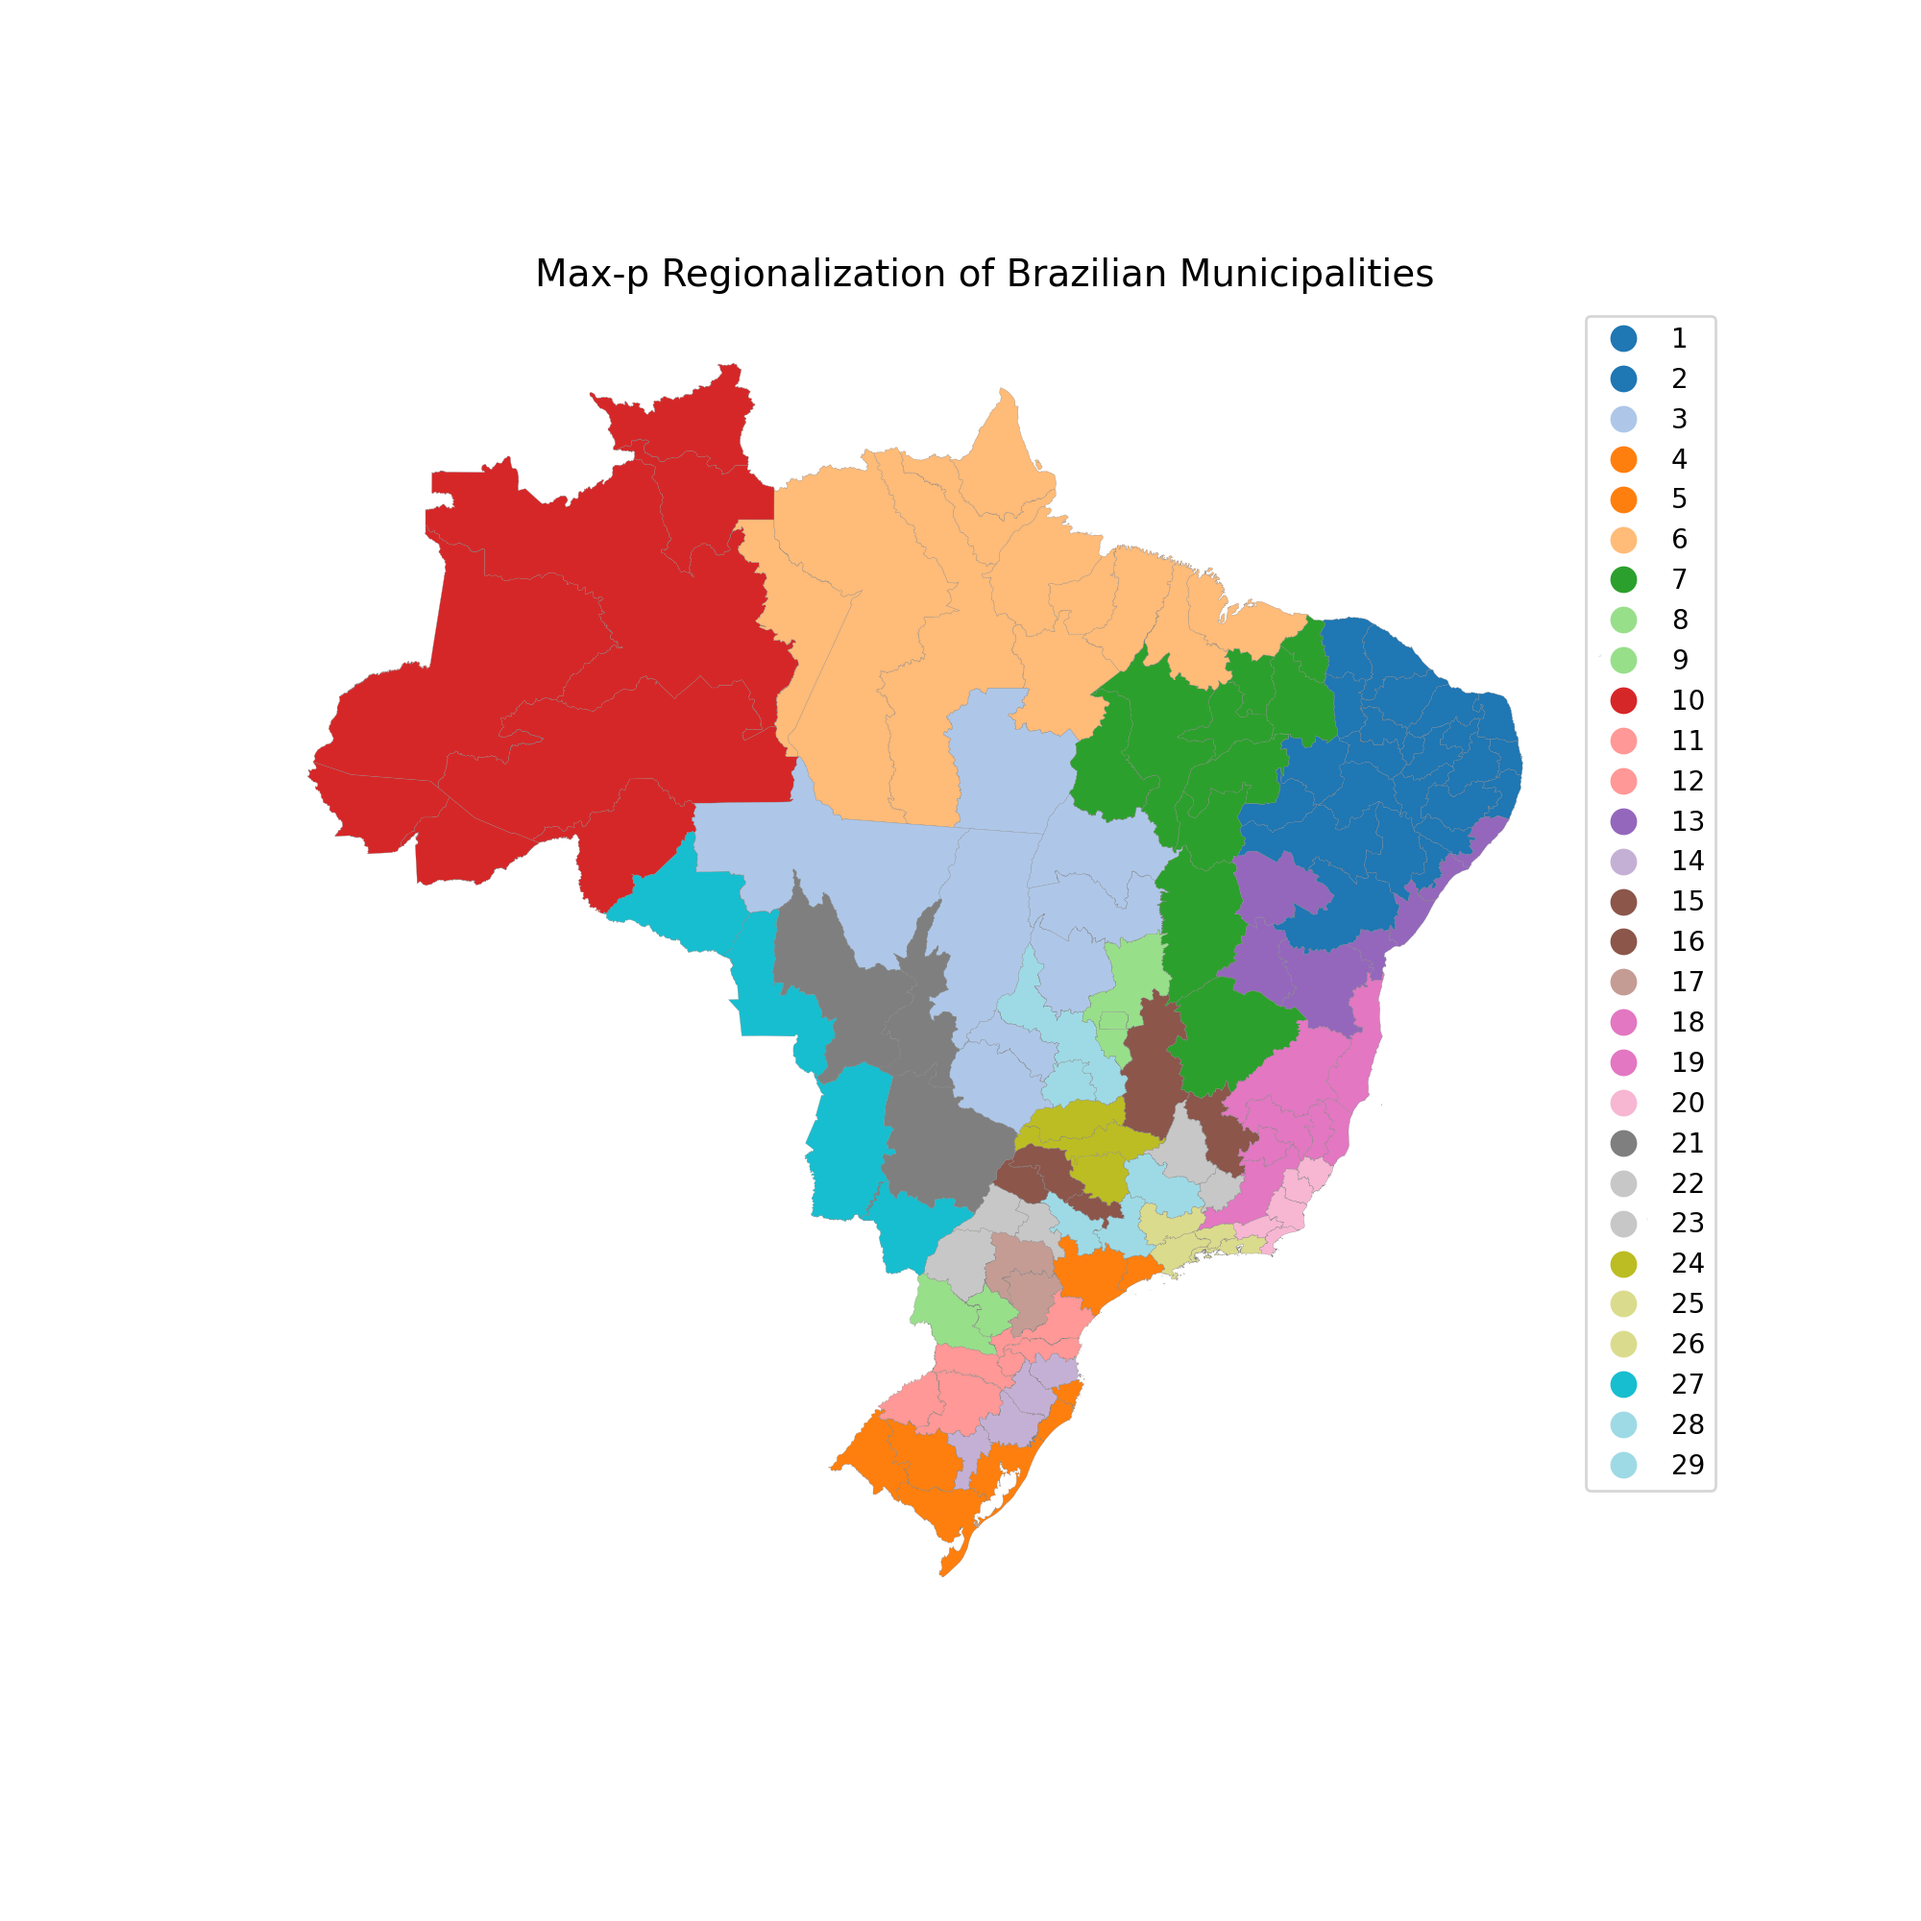
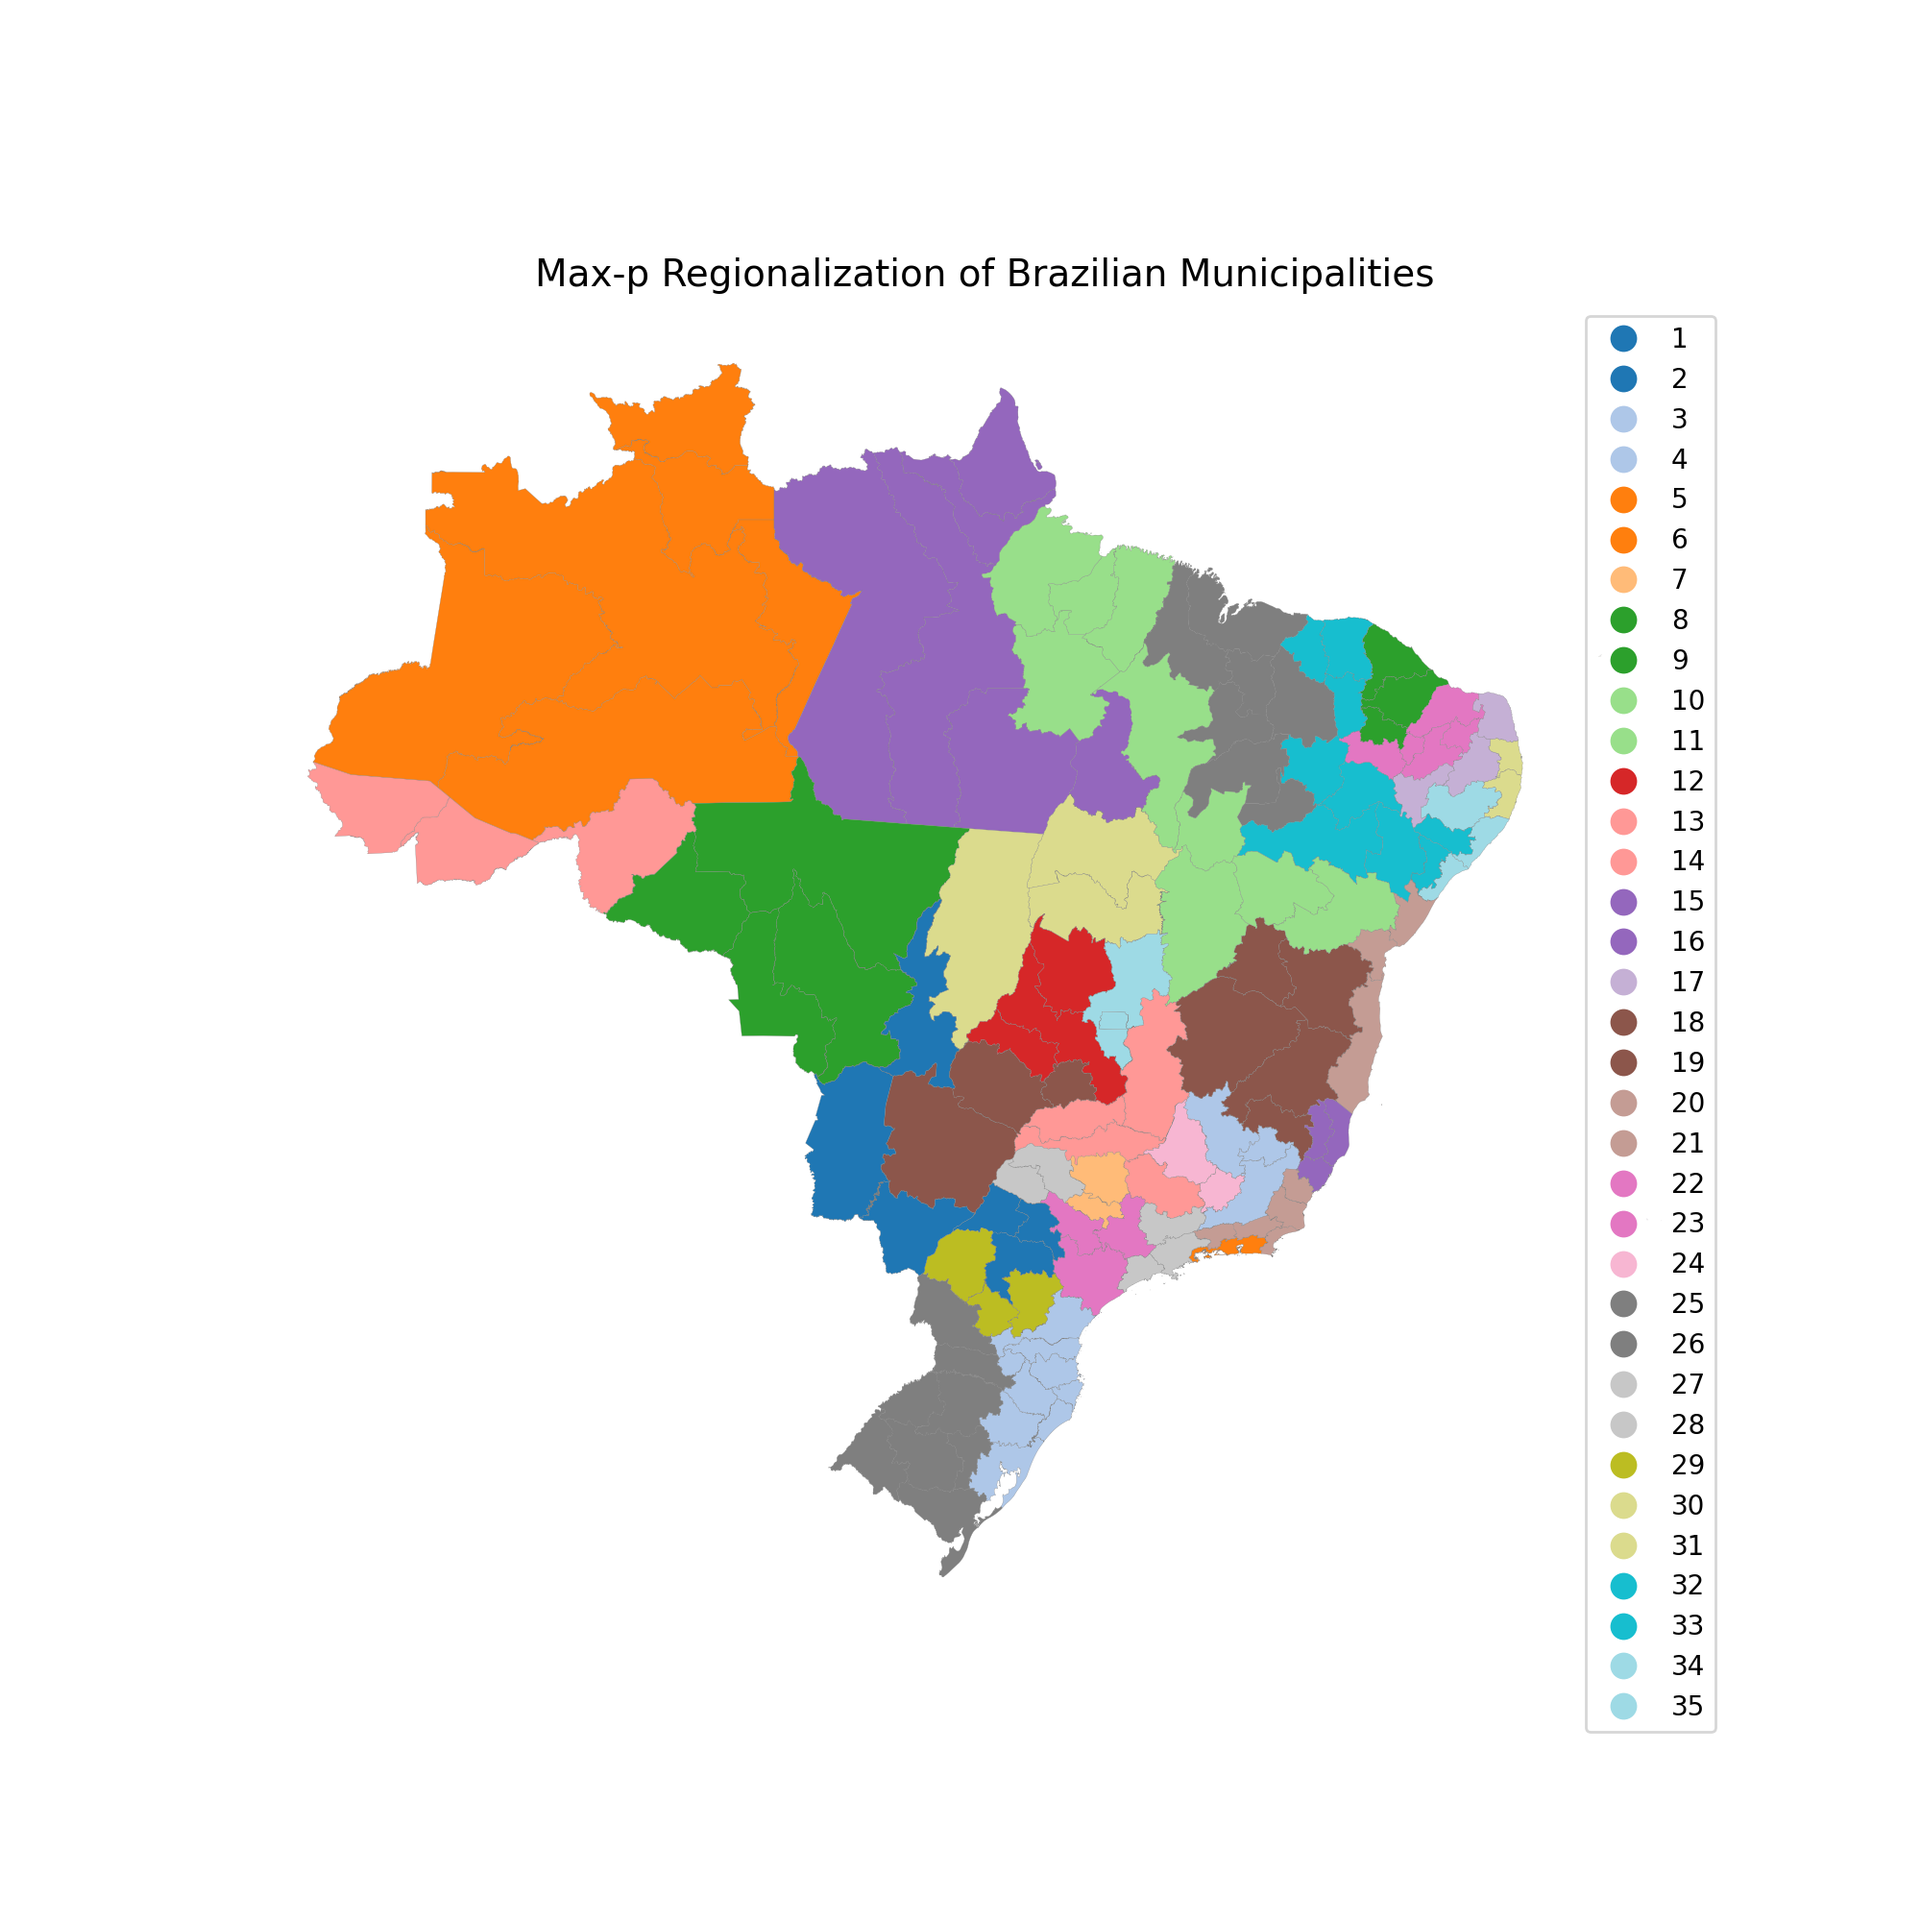
refine bojective

Changed region(s): [[0.155, 0.186, 0.806, 0.806], [0.837, 0.279, 0.899, 0.899], [0.837, 0.217, 0.868, 0.248]]

diff --git a/scripts/clustering/find-clusters.py b/scripts/clustering/find-clusters.py
@@ -18,7 +18,8 @@ region_filename = 'rgint'
 geography = gpd.read_parquet("../../data/interim/geographic-dataset.parquet")
 
 # Load case data
-denv = pd.read_csv('../../data/interim/datasus_DENV-linelist/mun/DENV-serotypes_1996-2025_monthly_mun.csv', parse_dates=True)
+denv = pd.read_csv('../../data/interim/datasus_DENV-linelist/mun/DENV-serotypes_1996-2025_monthly_mun.csv')
+denv['date'] = pd.to_datetime(denv['date'])
 
 # Load DTW-MDS embedding
 DTW_covariates = pd.read_csv(f'../../data/interim/DTW-MDS-embeddings/DTW-MDS-embedding_{region_filename}.csv')
@@ -85,21 +86,19 @@ if region:
 # >>>>>>>>>>>>>>>>>
 
 # Compute the mimimum sum of serotyped cases across all years (will have to be changed)
-# Extract year
+# limit time window (from 2020 onwards all regions have good subtyping)
+denv = denv[((denv['date'] > datetime(1900,1,1)) & (denv['date'] < datetime(2020,1,1)))]
+# extract year
 denv["year"] = pd.to_datetime(denv["date"]).dt.year
-# Compute total cases per month
-denv["total_cases"] = denv[["DENV_1","DENV_2","DENV_3","DENV_4"]].sum(axis=1)
-
-# Sum cases during active months by year
-active_sum = denv.groupby([f'{region}',"year"]).apply(lambda x: x.loc[x.total_cases>0,"total_cases"].sum()).reset_index(name="active_sum")
-
-# Take mean across years
-mean_active_sum = active_sum.groupby(f'{region}')["active_sum"].mean().reset_index()
-mean_active_sum.rename(columns={"active_sum":"mean_active_sum"}, inplace=True)
-
-# Merge min_yearly_sum
+# compute total cases per month
+denv["N_typed"] = denv[["DENV_1","DENV_2","DENV_3","DENV_4"]].sum(axis=1)
+# sum cases by year
+active_sum = denv.groupby([f'{region}',"year"])['N_typed'].sum().reset_index()
+# take mean across years
+mean_active_sum = active_sum.groupby(f'{region}')["N_typed"].mean().reset_index()
+mean_active_sum.rename(columns={"N_typed":"N_typed_monthly_mean"}, inplace=True)
+# merge min_yearly_sum
 geography = geography.merge(mean_active_sum, on=f'{region}', how="left")
-
 
 
 # Make biome covariate
@@ -160,7 +159,7 @@ geography[DTW_covariates] = sc.fit_transform(geography[DTW_covariates])
 # >>>>>>>>>>>>>>>>>>>>>>>>>>>
 
 # my pick
-attrs = DTW_covariates + [region+'_NORM'] + biome_dummies.columns.to_list() + ['cx', 'cy']
+attrs = DTW_covariates + ['cx', 'cy'] #+ [region+'_NORM'] #+ biome_dummies.columns.to_list() 
 
 
 
@@ -175,12 +174,12 @@ w = Rook.from_dataframe(geography)
 # Setup and run the max-p model
 # >>>>>>>>>>>>>>>>>>>>>>>>>>>>>
 
-threshold = 250  # Your chosen minimum sum per cluster
+threshold = 50  # Sum of column 'N_typed_monthly_mean' should exceed this threshold in every cluster
 model = MaxPHeuristic(
     geography,
     w, 
     attrs_name=attrs,
-    threshold_name='mean_active_sum',
+    threshold_name='N_typed_monthly_mean',
     threshold=threshold,
     top_n=3,
     verbose=True,
